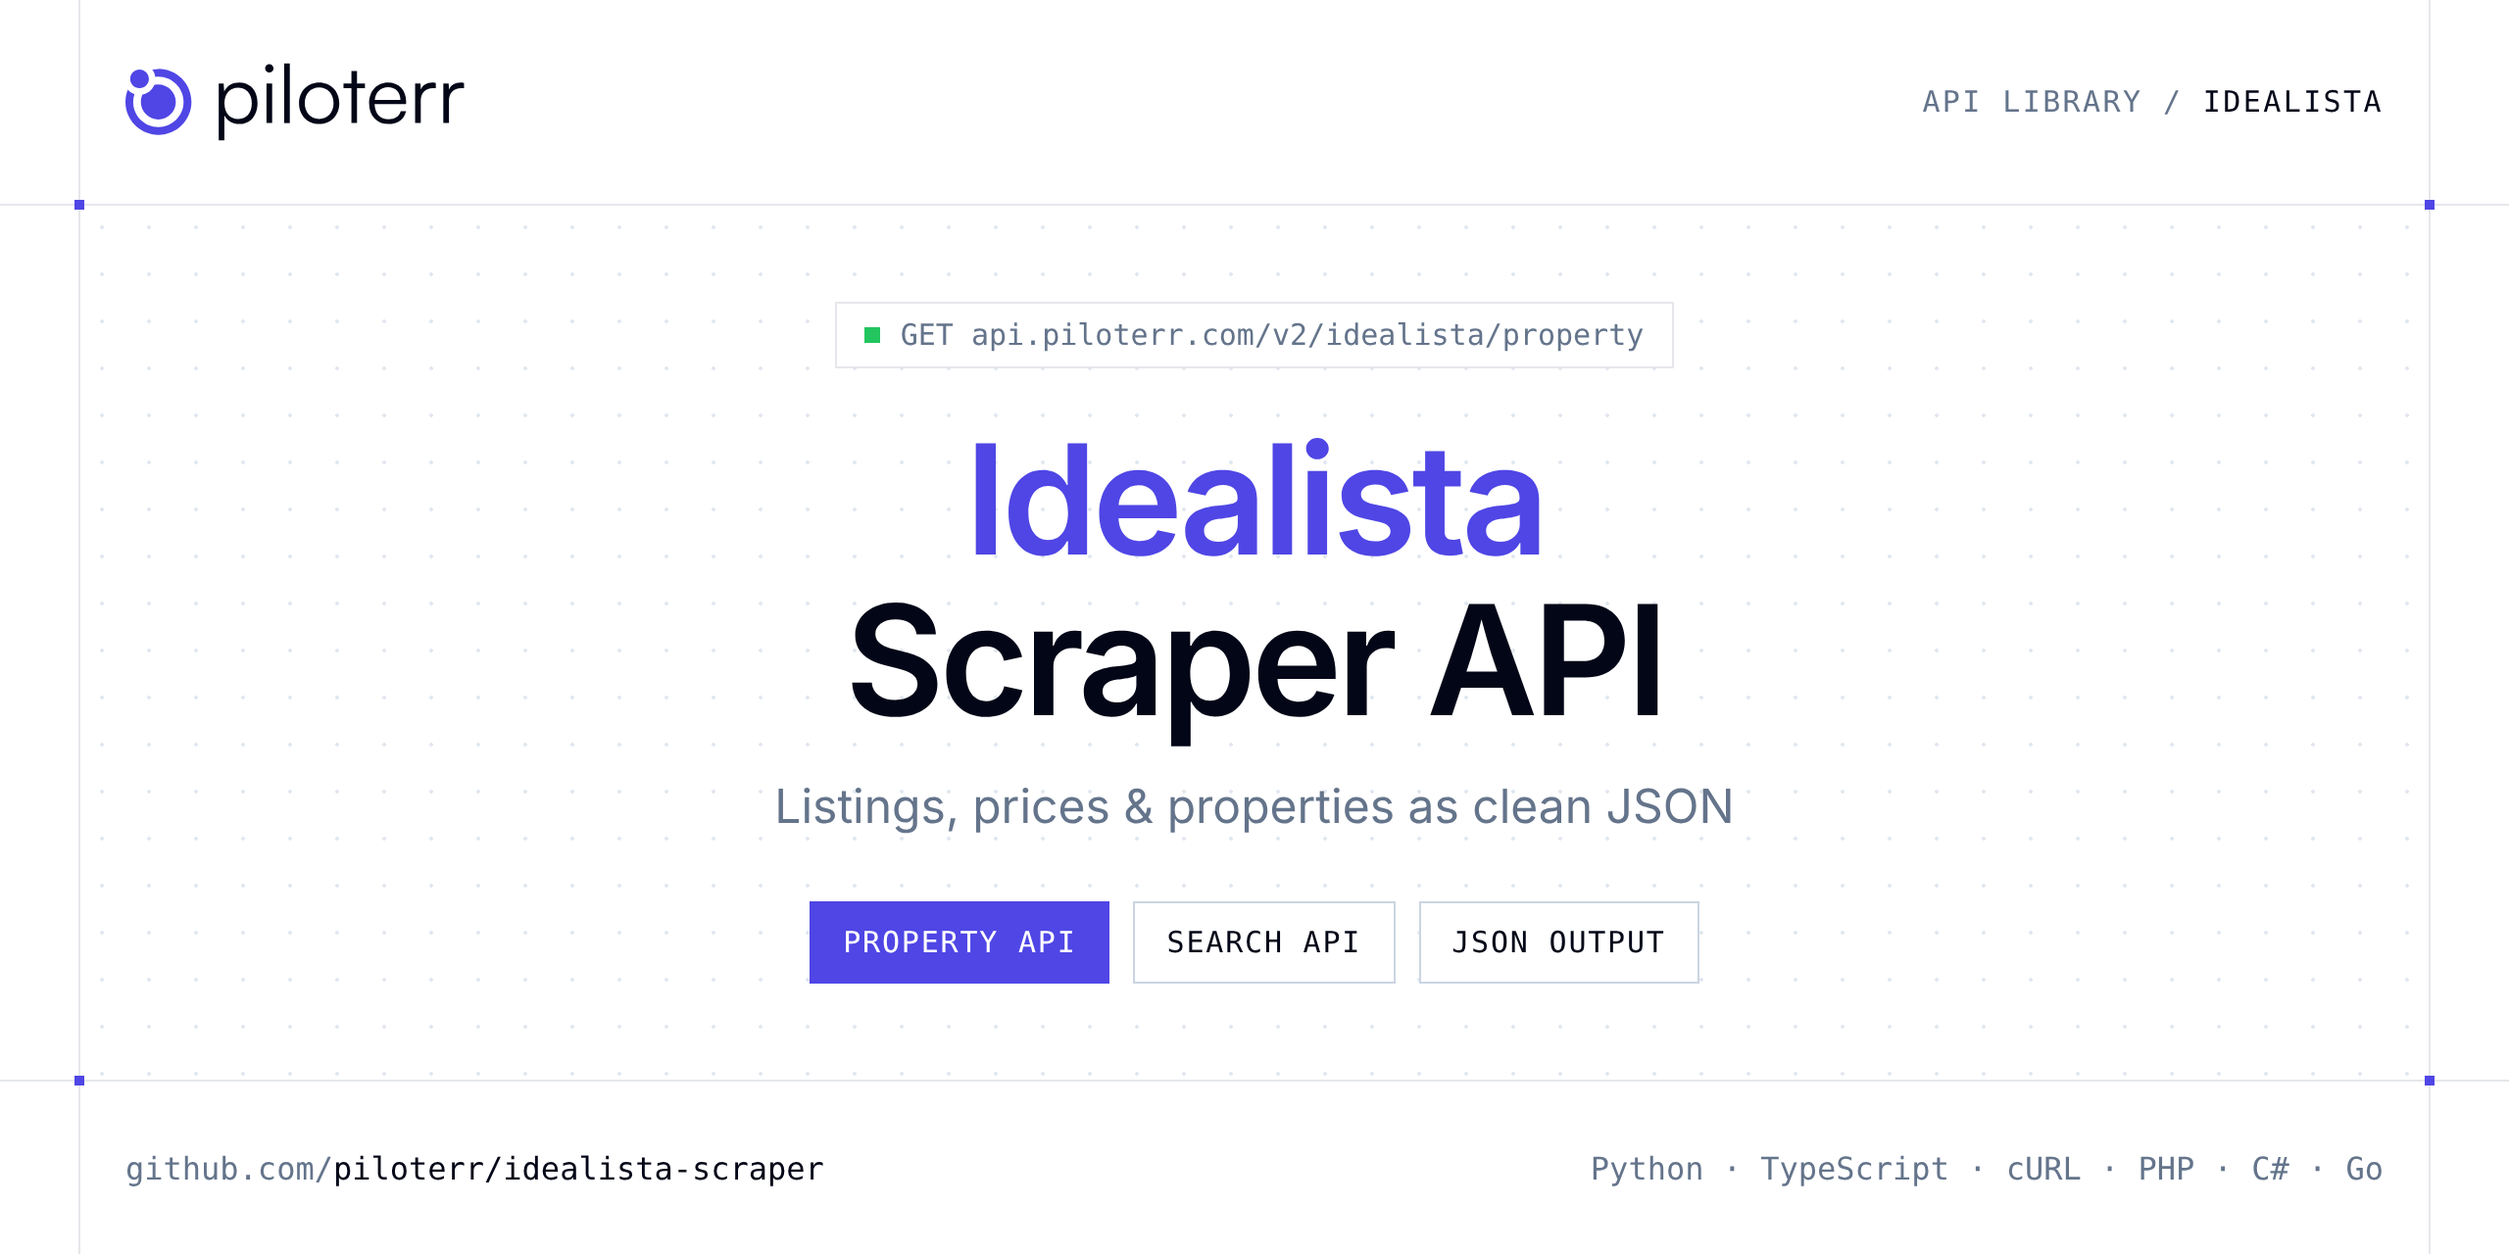
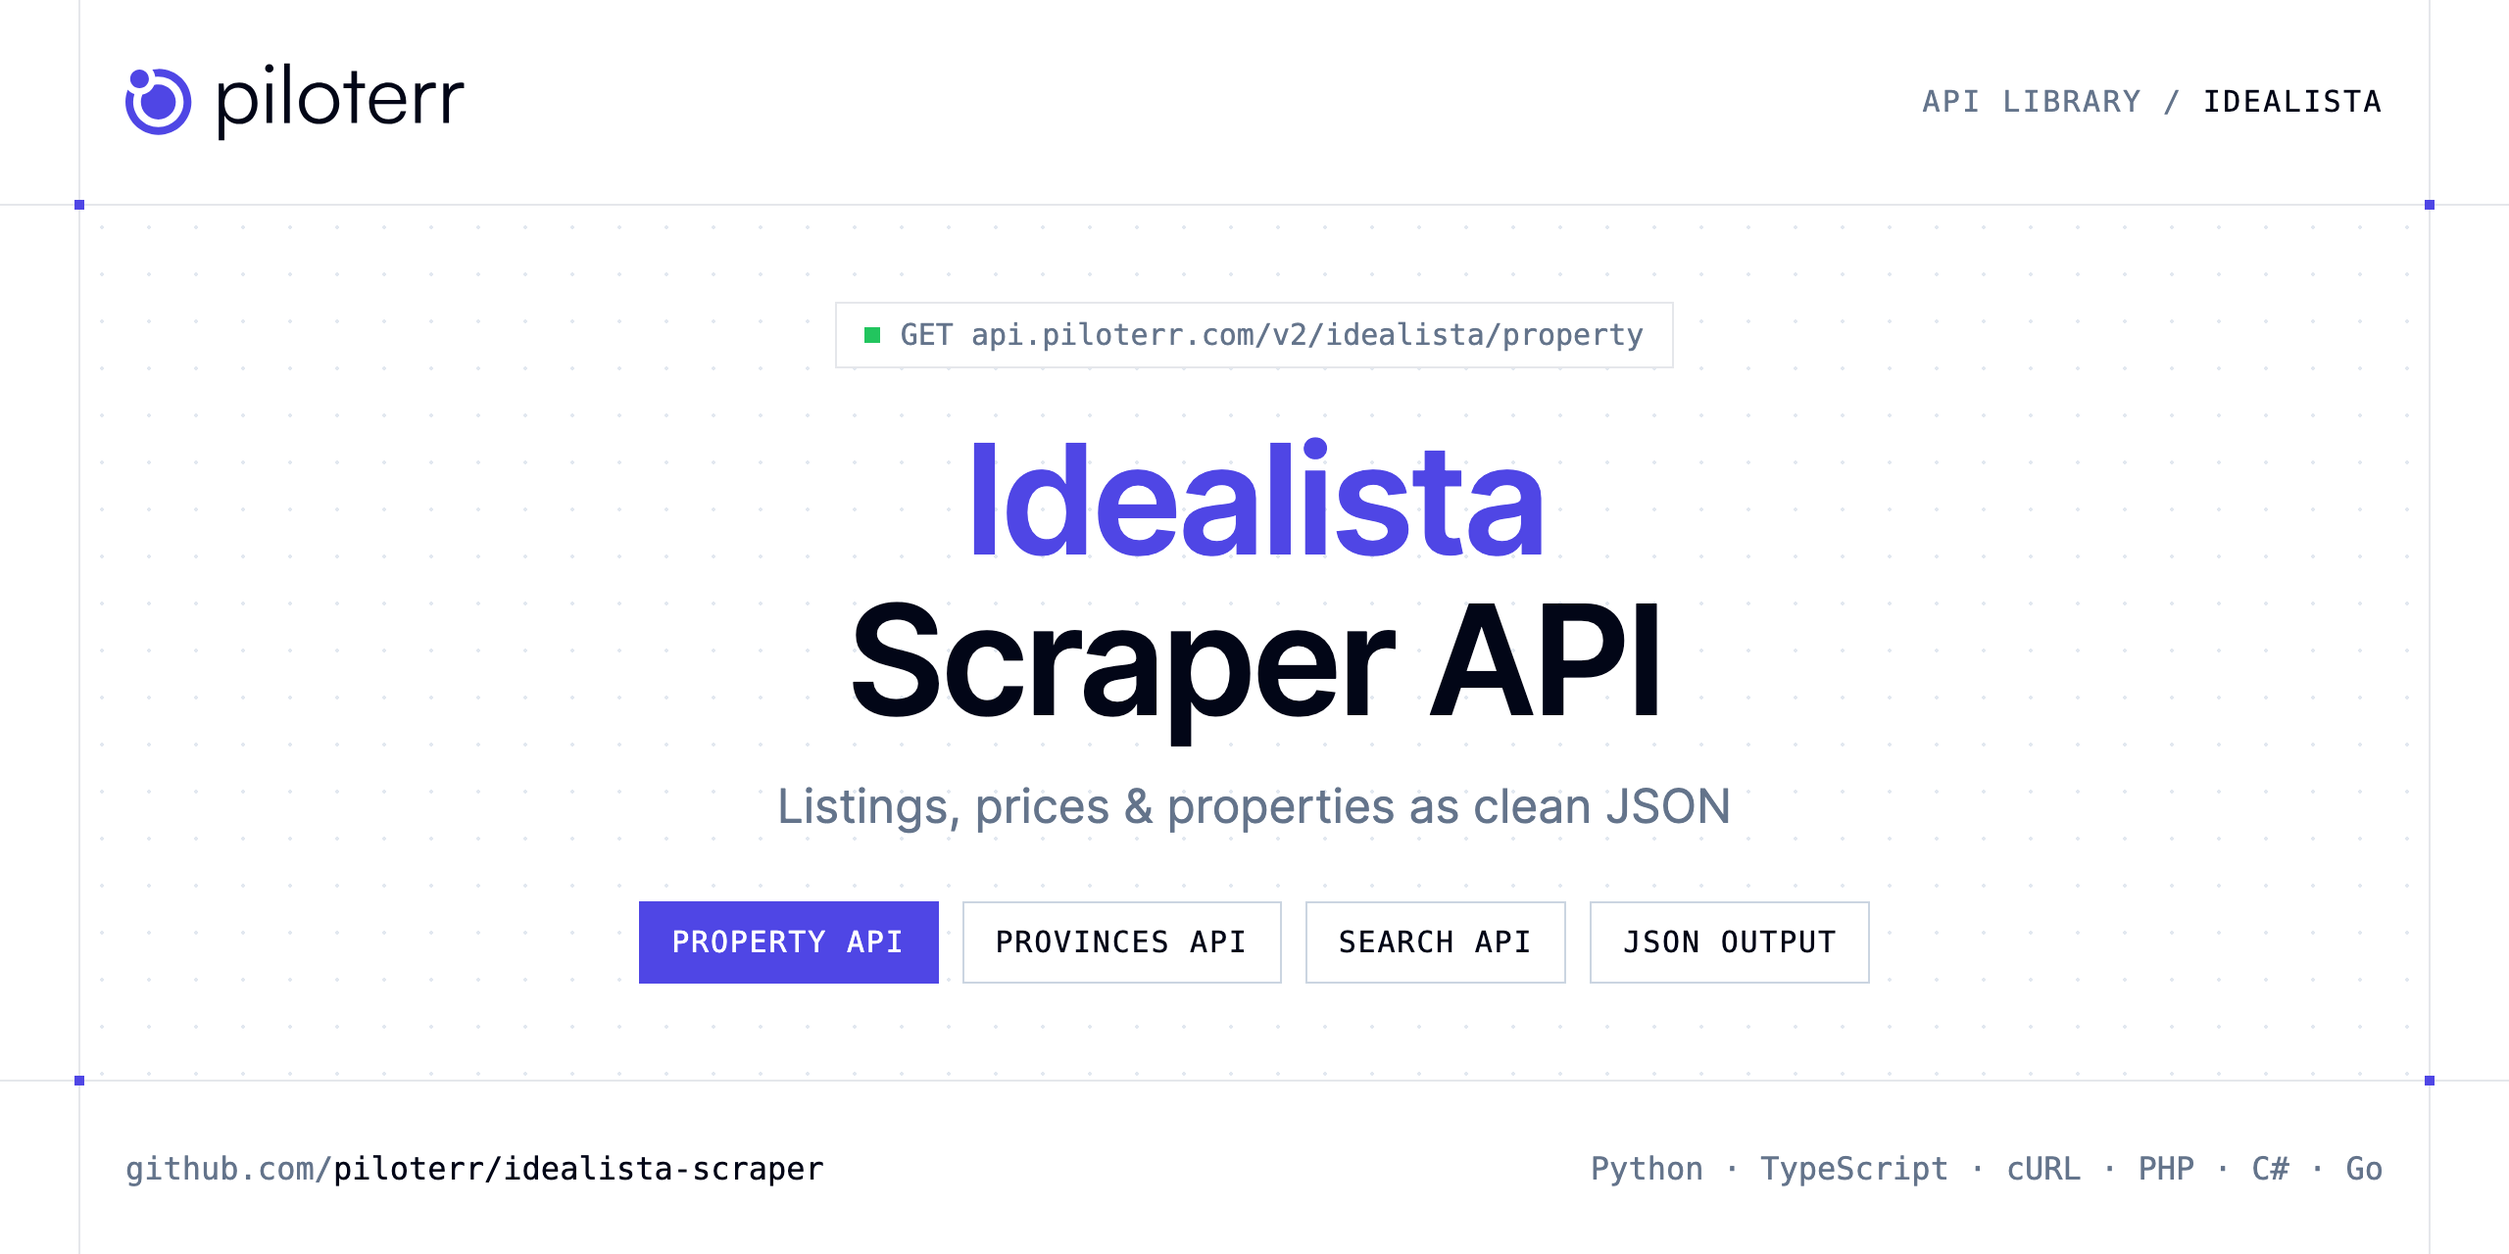
Update Idealista Scraper API examples and docs

diff --git a/examples/java/ProvincesExample.java b/examples/java/ProvincesExample.java
@@ -1,0 +1,35 @@
+// Idealista Provinces API – Java example (Java 11+)
+// Usage: PILOTERR_API_KEY=your-key java ProvincesExample.java
+import java.net.URI;
+import java.net.URLEncoder;
+import java.net.http.HttpClient;
+import java.net.http.HttpRequest;
+import java.net.http.HttpResponse;
+import java.nio.charset.StandardCharsets;
+import java.time.Duration;
+
+public class ProvincesExample {
+    static String enc(String v) {
+        return URLEncoder.encode(v, StandardCharsets.UTF_8);
+    }
+
+    public static void main(String[] args) throws Exception {
+        String query = "";
+
+        HttpRequest request = HttpRequest.newBuilder()
+            .uri(URI.create("https://api.piloterr.com/v2/idealista/provinces?" + query))
+            .header("x-api-key", System.getenv("PILOTERR_API_KEY"))
+            .timeout(Duration.ofSeconds(60))
+            .GET()
+            .build();
+
+        HttpResponse<String> response = HttpClient.newHttpClient()
+            .send(request, HttpResponse.BodyHandlers.ofString());
+
+        if (response.statusCode() != 200) {
+            System.err.println("Piloterr error " + response.statusCode() + ": " + response.body());
+            System.exit(1);
+        }
+        System.out.println(response.body());
+    }
+}

diff --git a/examples/csharp/Provinces.cs b/examples/csharp/Provinces.cs
@@ -1,0 +1,24 @@
+// Idealista Provinces API – C# example (.NET 6+, top-level statements)
+// Usage: dotnet new console -n Piloterr && copy this file to Program.cs
+//        PILOTERR_API_KEY=your-key dotnet run
+using System.Text.Json;
+
+var apiKey = Environment.GetEnvironmentVariable("PILOTERR_API_KEY")
+    ?? throw new InvalidOperationException("Set PILOTERR_API_KEY");
+
+using var http = new HttpClient { Timeout = TimeSpan.FromSeconds(60) };
+http.DefaultRequestHeaders.Add("x-api-key", apiKey);
+
+var query =
+    "";
+
+var response = await http.GetAsync("https://api.piloterr.com/v2/idealista/provinces?" + query);
+var body = await response.Content.ReadAsStringAsync();
+if (!response.IsSuccessStatusCode)
+{
+    Console.Error.WriteLine($"Piloterr error {(int)response.StatusCode}: {body}");
+    return;
+}
+
+using var doc = JsonDocument.Parse(body);
+Console.WriteLine(JsonSerializer.Serialize(doc, new JsonSerializerOptions { WriteIndented = true }));

diff --git a/examples/go/provinces.go b/examples/go/provinces.go
@@ -1,0 +1,39 @@
+// Idealista Provinces API – Go example
+// Usage: PILOTERR_API_KEY=your-key go run provinces.go
+package main
+
+import (
+	"bytes"
+	"encoding/json"
+	"fmt"
+	"io"
+	"net/http"
+	"net/url"
+	"os"
+	"time"
+)
+
+func main() {
+	params := url.Values{}
+
+
+	req, _ := http.NewRequest("GET", "https://api.piloterr.com/v2/idealista/provinces?"+params.Encode(), nil)
+	req.Header.Set("x-api-key", os.Getenv("PILOTERR_API_KEY"))
+
+	client := &http.Client{Timeout: 60 * time.Second}
+	resp, err := client.Do(req)
+	if err != nil {
+		panic(err)
+	}
+	defer resp.Body.Close()
+
+	body, _ := io.ReadAll(resp.Body)
+	if resp.StatusCode != http.StatusOK {
+		fmt.Fprintf(os.Stderr, "Piloterr error %d: %s\n", resp.StatusCode, body)
+		os.Exit(1)
+	}
+
+	var pretty bytes.Buffer
+	json.Indent(&pretty, body, "", "  ")
+	fmt.Println(pretty.String())
+}

diff --git a/examples/php/provinces.php b/examples/php/provinces.php
@@ -1,0 +1,26 @@
+<?php
+// Idealista Provinces API – PHP example (ext-curl)
+// Usage: PILOTERR_API_KEY=your-key php provinces.php
+
+$params = http_build_query([
+
+]);
+
+$ch = curl_init('https://api.piloterr.com/v2/idealista/provinces?' . $params);
+curl_setopt_array($ch, [
+    CURLOPT_RETURNTRANSFER => true,
+    CURLOPT_TIMEOUT => 60,
+    CURLOPT_HTTPHEADER => ['x-api-key: ' . getenv('PILOTERR_API_KEY')],
+]);
+
+$body = curl_exec($ch);
+$status = curl_getinfo($ch, CURLINFO_HTTP_CODE);
+curl_close($ch);
+
+if ($status !== 200) {
+    fwrite(STDERR, "Piloterr error $status: $body\n");
+    exit(1);
+}
+
+$data = json_decode($body, true);
+echo json_encode($data, JSON_PRETTY_PRINT | JSON_UNESCAPED_SLASHES | JSON_UNESCAPED_UNICODE), PHP_EOL;

diff --git a/examples/ruby/provinces.rb b/examples/ruby/provinces.rb
@@ -1,0 +1,19 @@
+# Idealista Provinces API – Ruby example (stdlib only)
+# Usage: PILOTERR_API_KEY=your-key ruby provinces.rb
+require "json"
+require "net/http"
+require "uri"
+
+uri = URI("https://api.piloterr.com/v2/idealista/provinces")
+uri.query = URI.encode_www_form()
+
+request = Net::HTTP::Get.new(uri)
+request["x-api-key"] = ENV.fetch("PILOTERR_API_KEY")
+
+response = Net::HTTP.start(uri.host, uri.port, use_ssl: true, read_timeout: 60) do |http|
+  http.request(request)
+end
+
+abort "Piloterr error #{response.code}: #{response.body}" unless response.is_a?(Net::HTTPSuccess)
+
+puts JSON.pretty_generate(JSON.parse(response.body))

diff --git a/README.md b/README.md
@@ -9,6 +9,7 @@
 The **Piloterr Idealista Scraper API** lets you extract public data from Idealista as **clean, structured JSON** — no proxies, headless browsers or HTML parsing to maintain. Endpoints available in production:
 
 - **Idealista Property API** — Extract full property details from an Idealista listing URL, including price, specs, photos by room, features, energy rating, and advertiser data.
+- **Idealista Provinces API** — List the 50 Spanish provinces Idealista shows for homes for sale.
 - **Idealista Search API** — Search Idealista listings from a search URL and retrieve prices, specs, photos, agency info, and pagination.
 
 Use it for property price monitoring, market analytics, investment sourcing or rental yield models.
@@ -16,12 +17,14 @@ Use it for property price monitoring, market analytics, investment sourcing or r
 | Endpoint | Path | Credits | What you get |
 |---|---|---|---|
 | [Idealista Property API](#idealista-property-api) | `/v2/idealista/property` | 3 | Extract full property details from an Idealista listing URL, including price, specs, photos by room, features, energy rating, and advertiser data. |
-| [Idealista Search API](#idealista-search-api) | `/v2/idealista/search` | 3 | Search Idealista listings from a search URL and retrieve prices, specs, photos, agency info, and pagination. |
+| [Idealista Provinces API](#idealista-provinces-api) | `/v2/idealista/provinces` | 3 | List the 50 Spanish provinces Idealista shows for homes for sale. Each row includes the sale search URL to pass as query to Idealista Search. Madrid is madrid-provincia. |
+| [Idealista Search API](#idealista-search-api) | `/v2/idealista/search` | 3 | Search Idealista listings from a search URL and retrieve prices, specs, photos, agency info, and pagination. Pass a province URL from `/v2/idealista/provinces` (`results[].url`) as `query`. Madrid is `https |
 
 ## Table of contents
 
 - [How it works](#how-it-works)
 - [Idealista Property API](#idealista-property-api)
+- [Idealista Provinces API](#idealista-provinces-api)
 - [Idealista Search API](#idealista-search-api)
 - [Code examples in other languages](#code-examples-in-other-languages)
 - [Practical use cases](#practical-use-cases)
@@ -228,9 +231,109 @@ Example response from the API reference, abridged — real values depend on the 
 | `advertiser_url` | string |  |
 | `advertiser_name` | string |  |
 
+## Idealista Provinces API
+
+List the 50 Spanish provinces Idealista shows for homes for sale. Each row includes the sale search URL to pass as query to Idealista Search. Madrid is madrid-provincia.
+
+`GET | POST https://api.piloterr.com/v2/idealista/provinces` · **3 credits per request** · [Full reference](https://app.piloterr.com/openapi)
+
+### Request parameters
+
+| Parameter | Type | Required | Description |
+|---|---|---|---|
+
+### Python example
+
+```python
+import json
+import os
+import requests
+
+response = requests.get(
+    "https://api.piloterr.com/v2/idealista/provinces",
+    headers={"x-api-key": os.environ["PILOTERR_API_KEY"]},
+    params={
+
+    },
+    timeout=60,
+)
+response.raise_for_status()
+data = response.json()
+
+print(json.dumps(data, indent=2, ensure_ascii=False)[:2000])
+```
+
+### TypeScript example
+
+```typescript
+type IdealistaProvinces = {
+  results?: {
+    url?: string;
+    name?: string;
+    slug?: string;
+    region?: string;
+    listing_count?: number;
+  }[];
+};
+
+const params = new URLSearchParams({
+
+});
+
+const response = await fetch(`https://api.piloterr.com/v2/idealista/provinces?${params}`, {
+  headers: { "x-api-key": process.env.PILOTERR_API_KEY! },
+});
+if (!response.ok) throw new Error(`Piloterr error ${response.status}: ${await response.text()}`);
+
+const data = (await response.json()) as IdealistaProvinces;
+
+console.log(JSON.stringify(data, null, 2).slice(0, 2000));
+```
+
+<details>
+<summary><b>POST variant</b></summary>
+
+```http
+POST https://api.piloterr.com/v2/idealista/provinces
+x-api-key: YOUR_API_KEY
+Content-Type: application/json
+
+{}
+```
+</details>
+
+### Output example
+
+Example response from the API reference, abridged — real values depend on the page you scrape.
+
+```json
+{
+  "results": [
+    {
+      "url": "https://www.idealista.com/venta-viviendas/madrid-provincia/",
+      "name": "Madrid",
+      "slug": "madrid-provincia",
+      "region": "Comunidad de Madrid",
+      "listing_count": 34094
+    }
+  ]
+}
+```
+
+### Response fields
+
+| Field | Type | Description |
+|---|---|---|
+| `results[]` | object[] |  |
+| `results[].url` | string |  |
+| `results[].name` | string |  |
+| `results[].slug` | string |  |
+| `results[].region` | string |  |
+| `results[].listing_count` | integer |  |
+
 ## Idealista Search API
 
-Search Idealista listings from a search URL and retrieve prices, specs, photos, agency info, and pagination.
+Search Idealista listings from a search URL and retrieve prices, specs, photos, agency info, and pagination. Pass a province URL from `/v2/idealista/provinces` (`results[].url`) as `query`. Madrid is `https://www.idealista.com/venta-viviendas/madrid-provincia/`.
 
 `GET | POST https://api.piloterr.com/v2/idealista/search` · **3 credits per request** · [Full reference](https://app.piloterr.com/openapi)
 
@@ -389,15 +492,15 @@ Example response from the API reference, abridged — real values depend on the 
 
 Ready-to-run examples live in the [`examples/`](examples) folder. Each one reads your key from the `PILOTERR_API_KEY` environment variable.
 
-| Language | Property | Search |
-|---|---|---|
-| cURL (Bash) | [`property`](examples/curl/property.sh) | [`search`](examples/curl/search.sh) |
-| PHP | [`property`](examples/php/property.php) | [`search`](examples/php/search.php) |
-| C# | [`property`](examples/csharp/Property.cs) | [`search`](examples/csharp/Search.cs) |
-| Go | [`property`](examples/go/property.go) | [`search`](examples/go/search.go) |
-| Java | [`property`](examples/java/PropertyExample.java) | [`search`](examples/java/SearchExample.java) |
-| Ruby | [`property`](examples/ruby/property.rb) | [`search`](examples/ruby/search.rb) |
-| Node.js | [`property`](examples/nodejs/property.mjs) | [`search`](examples/nodejs/search.mjs) |
+| Language | Property | Provinces | Search |
+|---|---|---|---|
+| cURL (Bash) | [`property`](examples/curl/property.sh) | [`provinces`](examples/curl/provinces.sh) | [`search`](examples/curl/search.sh) |
+| PHP | [`property`](examples/php/property.php) | [`provinces`](examples/php/provinces.php) | [`search`](examples/php/search.php) |
+| C# | [`property`](examples/csharp/Property.cs) | [`provinces`](examples/csharp/Provinces.cs) | [`search`](examples/csharp/Search.cs) |
+| Go | [`property`](examples/go/property.go) | [`provinces`](examples/go/provinces.go) | [`search`](examples/go/search.go) |
+| Java | [`property`](examples/java/PropertyExample.java) | [`provinces`](examples/java/ProvincesExample.java) | [`search`](examples/java/SearchExample.java) |
+| Ruby | [`property`](examples/ruby/property.rb) | [`provinces`](examples/ruby/provinces.rb) | [`search`](examples/ruby/search.rb) |
+| Node.js | [`property`](examples/nodejs/property.mjs) | [`provinces`](examples/nodejs/provinces.mjs) | [`search`](examples/nodejs/search.mjs) |
 
 ## Practical use cases
 
@@ -427,11 +530,11 @@ No. Piloterr handles rendering, proxy rotation and retries on its side. You only
 
 ### How much does a request cost?
 
-Credits per call: `/v2/idealista/property` **3**, `/v2/idealista/search` **3**. See the [Piloterr website](https://www.piloterr.com) for plans.
+Credits per call: `/v2/idealista/property` **3**, `/v2/idealista/provinces` **3**, `/v2/idealista/search` **3**. See the [Piloterr website](https://www.piloterr.com) for plans.
 
 ### What data does the Idealista API return?
 
-Each endpoint returns structured JSON: **Idealista Property** — `url`, `plans`, `price`, `title`, `units`, `images`; **Idealista Search** — `results[]`, `results[].link`, `results[].price`, `results[].title`, `results[].details`, `results[].picture`.
+Each endpoint returns structured JSON: **Idealista Property** — `url`, `plans`, `price`, `title`, `units`, `images`; **Idealista Provinces** — `results[]`, `results[].url`, `results[].name`, `results[].slug`, `results[].region`, `results[].listing_count`; **Idealista Search** — `results[]`, `results[].link`, `results[].price`, `results[].title`, `results[].details`, `results[].picture`.
 
 ### Which languages are supported?
 

diff --git a/examples/README.md b/examples/README.md
@@ -9,18 +9,25 @@ export PILOTERR_API_KEY="your-api-key"   # get one at https://app.piloterr.com
 | Language | File | Run |
 |---|---|---|
 | cURL (Bash) | [`curl/property.sh`](curl/property.sh) | `bash property.sh` |
+| cURL (Bash) | [`curl/provinces.sh`](curl/provinces.sh) | `bash provinces.sh` |
 | cURL (Bash) | [`curl/search.sh`](curl/search.sh) | `bash search.sh` |
 | PHP | [`php/property.php`](php/property.php) | `php property.php` |
+| PHP | [`php/provinces.php`](php/provinces.php) | `php provinces.php` |
 | PHP | [`php/search.php`](php/search.php) | `php search.php` |
 | C# | [`csharp/Property.cs`](csharp/Property.cs) | `copy to `Program.cs`, `dotnet run` |
+| C# | [`csharp/Provinces.cs`](csharp/Provinces.cs) | `copy to `Program.cs`, `dotnet run` |
 | C# | [`csharp/Search.cs`](csharp/Search.cs) | `copy to `Program.cs`, `dotnet run` |
 | Go | [`go/property.go`](go/property.go) | `go run property.go` |
+| Go | [`go/provinces.go`](go/provinces.go) | `go run provinces.go` |
 | Go | [`go/search.go`](go/search.go) | `go run search.go` |
 | Java | [`java/PropertyExample.java`](java/PropertyExample.java) | `java PropertyExample.java` |
+| Java | [`java/ProvincesExample.java`](java/ProvincesExample.java) | `java ProvincesExample.java` |
 | Java | [`java/SearchExample.java`](java/SearchExample.java) | `java SearchExample.java` |
 | Ruby | [`ruby/property.rb`](ruby/property.rb) | `ruby property.rb` |
+| Ruby | [`ruby/provinces.rb`](ruby/provinces.rb) | `ruby provinces.rb` |
 | Ruby | [`ruby/search.rb`](ruby/search.rb) | `ruby search.rb` |
 | Node.js | [`nodejs/property.mjs`](nodejs/property.mjs) | `node property.mjs` |
+| Node.js | [`nodejs/provinces.mjs`](nodejs/provinces.mjs) | `node provinces.mjs` |
 | Node.js | [`nodejs/search.mjs`](nodejs/search.mjs) | `node search.mjs` |
 
 Questions? Join us on [Discord](https://discord.gg/CFj3ph8aHU).
